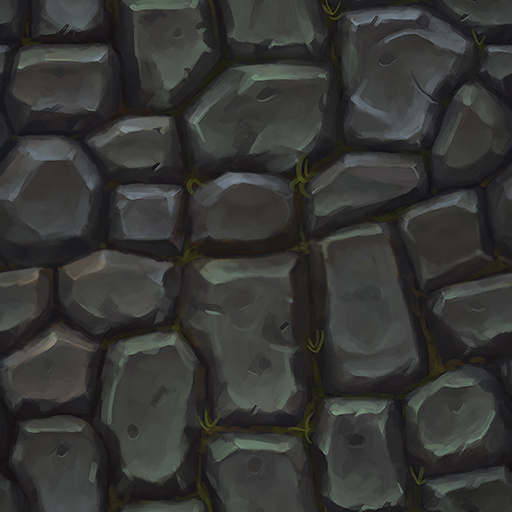
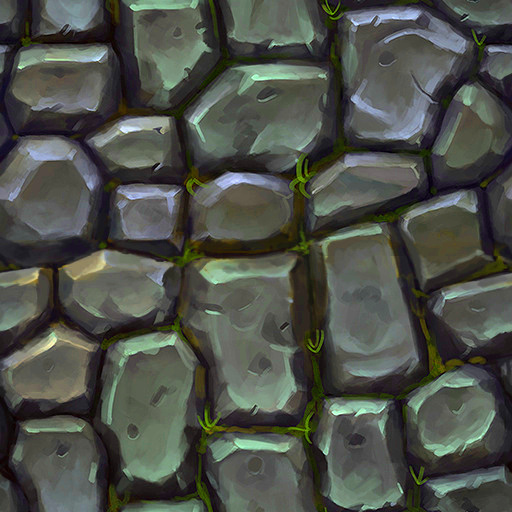
Subjective view.

diff --git a/spec/mod/mover.js b/spec/mod/mover.js
@@ -1,2 +1,2 @@
-require("mover",function(t,i){function s(t){"undefined"==typeof t&&(t={}),"undefined"==typeof t.durTranslate&&(t.durTranslate=500),"undefined"==typeof t.durRotate&&(t.durRotate=200),"undefined"==typeof t.col&&(t.col=0),"undefined"==typeof t.row&&(t.row=0),this._durTranslate=t.durTranslate,this._durRotate=t.durRotate,this._mesh=t.mesh,this._castle=t.castle,this._action=null,this._rot=this._angle=0,this._x=t.castle.col2x(t.col),this._y=t.castle.getHeight(t.col,t.row),this._z=t.castle.row2z(t.row),this._miniJump=0}function o(t){var i=this._castle,s=e[this._rot],o=this.getCol(),h=this.getRow(),n=i.getHeight(o,h),_=o+s[0],r=h+s[1],a=i.getHeight(_,r);if(!(Math.abs(a-n)>.33)){var c=this._x,l=this._y,u=this._z,p=i.col2x(_),f=a,d=i.row2z(r);this._miniJump=Math.abs(f-l),this._miniJump>.001&&(this._miniJump+=.1);var x=function(i){i-=t,i>this._durTranslate?(this._action=null,this._x=p,this._y=f,this._z=d):(i/=this._durTranslate,this._x=c*(1-i)+p*i,this._y=l*(1-i)+f*i+this._miniJump*Math.sin(Math.PI*i),this._z=u*(1-i)+d*i)};this._action=x.bind(this)}}function h(t){var i=function(i){i-=t,i>this._durRotate?(this._action=null,this._rot=(this._rot+1)%4,this._angle=-this._rot*Math.PI/2):(i/=this._durRotate,this._angle=-(this._rot+i)*Math.PI/2)};this._action=i.bind(this)}function n(t){var i=function(i){i-=t,i>this._durRotate?(this._action=null,this._rot=(this._rot+3)%4,this._angle=-this._rot*Math.PI/2):(i/=this._durRotate,this._angle=-(this._rot-i)*Math.PI/2)};this._action=i.bind(this)}var e=[[1,0],[0,1],[-1,0],[0,-1]];s.prototype.getDir=function(){return e[this._rot]},s.prototype.getPos=function(){return{x:this._x,y:this._y,z:this._z}},s.prototype.move=function(t){if(this._action)this._action(t);else if(this._nextAction){var i=this._nextAction.id;"teleport"==i?(this._x=this._nextAction.x,this._y=this._nextAction.y,this._z=this._nextAction.z):"forward"==i?o.call(this,t):"right"==i?h.call(this,t):"left"==i&&n.call(this,t),this._nextAction=null}this._mesh.position.x=this._x,this._mesh.position.y=this._y,this._mesh.position.z=this._z,this._mesh.rotation.y=this._angle},s.prototype.getCol=function(){return this._castle.x2col(this._x)},s.prototype.getRow=function(){return this._castle.z2row(this._z)},s.prototype.teleport=function(t,i,s){this._action?this._nextAction={id:"teleport",x:t,y:i,z:s}:(this._action=null,this._x=t,this._y=i,this._z=s)},s.prototype.forward=function(){this._nextAction={id:"forward"}},s.prototype.right=function(){this._nextAction={id:"right"}},s.prototype.left=function(){this._nextAction={id:"left"}},s.prototype.stop=function(){this._nextAction=null},i.exports=s});
+require("mover",function(t,i){function s(t){"undefined"==typeof t&&(t={}),"undefined"==typeof t.durTranslate&&(t.durTranslate=500),"undefined"==typeof t.durRotate&&(t.durRotate=700),"undefined"==typeof t.col&&(t.col=0),"undefined"==typeof t.row&&(t.row=0),this._durTranslate=t.durTranslate,this._durRotate=t.durRotate,this._mesh=t.mesh,this._castle=t.castle,this._action=null,this._rot=this._angle=0,this._x=t.castle.col2x(t.col),this._y=t.castle.getHeight(t.col,t.row),this._z=t.castle.row2z(t.row),this._miniJump=0}function o(t){var i=this._castle,s=e[this._rot],o=this.getCol(),h=this.getRow(),n=i.getHeight(o,h),_=o+s[0],r=h+s[1],a=i.getHeight(_,r);if(!(Math.abs(a-n)>.33)){var c=this._x,l=this._y,u=this._z,p=i.col2x(_),f=a,d=i.row2z(r);this._miniJump=Math.abs(f-l),this._miniJump>.001&&(this._miniJump+=.1);var x=function(i){i-=t,i>this._durTranslate?(this._action=null,this._x=p,this._y=f,this._z=d):(i/=this._durTranslate,this._x=c*(1-i)+p*i,this._y=l*(1-i)+f*i+this._miniJump*Math.sin(Math.PI*i),this._z=u*(1-i)+d*i)};this._action=x.bind(this)}}function h(t){var i=function(i){i-=t,i>this._durRotate?(this._action=null,this._rot=(this._rot+1)%4,this._angle=-this._rot*Math.PI/2):(i/=this._durRotate,this._angle=-(this._rot+i)*Math.PI/2)};this._action=i.bind(this)}function n(t){var i=function(i){i-=t,i>this._durRotate?(this._action=null,this._rot=(this._rot+3)%4,this._angle=-this._rot*Math.PI/2):(i/=this._durRotate,this._angle=-(this._rot-i)*Math.PI/2)};this._action=i.bind(this)}var e=[[1,0],[0,1],[-1,0],[0,-1]];s.prototype.getDir=function(){return e[this._rot]},s.prototype.getPos=function(){return{x:this._x,y:this._y,z:this._z}},s.prototype.move=function(t){if(this._action)this._action(t);else if(this._nextAction){var i=this._nextAction.id;"teleport"==i?(this._x=this._nextAction.x,this._y=this._nextAction.y,this._z=this._nextAction.z):"forward"==i?o.call(this,t):"right"==i?h.call(this,t):"left"==i&&n.call(this,t),this._nextAction=null}this._mesh.position.x=this._x,this._mesh.position.y=this._y,this._mesh.position.z=this._z,this._mesh.rotation.y=this._angle},s.prototype.getCol=function(){return this._castle.x2col(this._x)},s.prototype.getRow=function(){return this._castle.z2row(this._z)},s.prototype.teleport=function(t,i,s){this._action?this._nextAction={id:"teleport",x:t,y:i,z:s}:(this._action=null,this._x=t,this._y=i,this._z=s)},s.prototype.forward=function(){this._nextAction={id:"forward"}},s.prototype.right=function(){this._nextAction={id:"right"}},s.prototype.left=function(){this._nextAction={id:"left"}},s.prototype.stop=function(){this._nextAction=null},i.exports=s});
 //# sourceMappingURL=mover.js.map

diff --git a/src/mod/follower.js b/src/mod/follower.js
@@ -11,8 +11,16 @@ function Follower( args ) {
     this._x = this._z = 0;
     this._y = 20;
     this._time = 0;
+    this._looks = [
+        subjective.bind( this )
+    ];
 }
 
+var DIRS = [[-1,0], [0,-1], [1,0], [0,1]];
+
+function subjective( time1 ) {
+
+}
 
 /**
  * @return void
@@ -24,7 +32,13 @@ Follower.prototype.look = function( time1 ) {
     var newPos = this._args.mesh.position;
     var angle = this._args.mesh.rotation.y;    
     var time0 = this._time;
-    var maxFar = 5;
+    var maxDist = 5;
+    var orientation;
+    var bestOrientation;
+    var bestDist;
+    var bestHeight;
+    var bestCol, bestRow;
+
     var dist;
     var col, row;
     var vx, vy, vz;
@@ -36,44 +50,55 @@ Follower.prototype.look = function( time1 ) {
         col = castle.x2col( newPos.x );
         row = castle.z2row( newPos.z );
         var currentHeight = castle.getHeight( col, row );
+        // Finding orientation. This will be a number between 0 and 3.
+        bestDist = 0;
+        bestHeight = currentHeight;
+        orientation = Math.floor( angle + Math.PI / 8 ) % 4;
+        if( orientation < 0 ) orientation += 4;
+        [
+            orientation,
+            (orientation + 1) % 4,
+            (orientation + 3) % 4,
+            (orientation + 2) % 4,
+        ].forEach(function( orient ) {
+            var col2 = col, row2 = row;
+            var dir = DIRS[orient];
+//if( typeof dir === 'undefined' ) debugger;
+
+            var height;
+            var lastHeight = currentHeight;
+            for( var dist = 1 ; dist < maxDist ; dist++ ) {
+                col2 += dir[0];
+                row2 += dir[1];
+                height = Math.max( lastHeight, castle.getHeight( col2, row2 ) );
+                if( Math.abs( height - lastHeight ) > .33 ) break;
+                lastHeight = height;
+                if( dist > bestDist ) {
+                    bestDist = dist;
+                    bestHeight = height;
+                    bestCol = col2;
+                    bestRow = row2;
+                }
+            }
+        });
+
+        var targetX = castle.col2x( bestCol );
+        var targetY = bestHeight + 1.5;
+        var targetZ = castle.row2z( bestRow );
+
         var time = time1 - time0;
         var shift = .1 * Math.cos( time1 * .0007 );
-        var targetX = newPos.x - maxFar * Math.cos( angle );
-        var targetZ = newPos.z + maxFar * Math.sin( angle );
-        col = castle.z2row( targetX );
-        row = castle.x2col( targetZ );
-        var targetY = Math.max( currentHeight - .4, castle.getHeight( col, row ) );
-        bestSlope = targetY - currentHeight;
-        dist = maxFar;
-        for( k = maxFar - 1 ; k > 0 ; k-- ) {
-            x = newPos.x - k * Math.cos( angle );
-            z = newPos.z + k * Math.sin( angle );
-            col = castle.x2col( x );
-            row = castle.z2row( z );
-            h = castle.getHeight( col, row );
-            if( h == 0 ) h = currentHeight;
-            slope = (h - currentHeight) / k;
-            if( slope > bestSlope ) {
-                // There is a better spot for the camera.
-                dist = k;
-                bestSlope = slope;
-                targetX = x;
-                targetZ = z;
-                targetY = h;
-            }
-        }
 
-        dist -= .8;
-        targetX = newPos.x - dist * Math.cos( angle + shift );
-        targetZ = newPos.z + dist * Math.sin( angle + shift );
-        targetY += 1.5;  //.2 * dist;
+        targetX = newPos.x;
+        targetY = newPos.y + .8;
+        targetZ = newPos.z;
+
+        // Let's go to the target.
         vx = targetX - camera.position.x;
         vy = targetY - camera.position.y;
         vz = targetZ - camera.position.z;
         r = Math.sqrt( vx * vx + vy * vy + vz * vz );
 
-        if( isNaN( r ) ) debugger;
-        
         if( r < time * speed ) {
             camera.position.x = targetX;
             camera.position.y = targetY;
@@ -87,7 +112,12 @@ Follower.prototype.look = function( time1 ) {
     }
     this._time = time1;
    
-    camera.lookAt( new THREE.Vector3( newPos.x, newPos.y + 1, newPos.z ) );    
+    camera.position = new THREE.Vector3( newPos.x, newPos.y + .8, newPos.z );
+    camera.lookAt( new THREE.Vector3( 
+        newPos.x - Math.sin( angle - Math.PI / 2 ), 
+        newPos.y + .8, 
+        newPos.z - Math.cos( angle - Math.PI / 2 )
+    ) );    
 };
 
 

diff --git a/spec/mod/follower.js b/spec/mod/follower.js
@@ -1,2 +1,2 @@
-require("follower",function(t,i){function o(t){this._args=t,this._x=this._z=0,this._y=20,this._time=0}o.prototype.look=function(t){var i,o,s,h,a,e,r,n,x,c,p,z,g,_=.006,l=this._args.camera,M=this._args.castle,f=this._args.mesh.position,m=this._args.mesh.rotation.y,y=this._time,w=5;if(y>0){o=M.x2col(f.x),s=M.z2row(f.z);var u=M.getHeight(o,s),v=t-y,H=.1*Math.cos(7e-4*t),k=f.x-w*Math.cos(m),q=f.z+w*Math.sin(m);o=M.z2row(k),s=M.x2col(q);var E=Math.max(u-.4,M.getHeight(o,s));for(g=E-u,i=w,n=w-1;n>0;n--)c=f.x-n*Math.cos(m),p=f.z+n*Math.sin(m),o=M.x2col(c),s=M.z2row(p),x=M.getHeight(o,s),0==x&&(x=u),z=(x-u)/n,z>g&&(i=n,g=z,k=c,q=p,E=x);if(i-=.8,k=f.x-i*Math.cos(m+H),q=f.z+i*Math.sin(m+H),E+=1.5,h=k-l.position.x,a=E-l.position.y,e=q-l.position.z,r=Math.sqrt(h*h+a*a+e*e),isNaN(r),v*_>r)l.position.x=k,l.position.y=E,l.position.z=q;else{var N=v*_/r;l.position.x+=h*N,l.position.y+=a*N,l.position.z+=e*N}}this._time=t,l.lookAt(new THREE.Vector3(f.x,f.y+1,f.z))},i.exports=o});
+require("follower",function(t,o){function i(t){this._args=t,this._x=this._z=0,this._y=20,this._time=0,this._looks=[s.bind(this)]}function s(t){}var a=[[-1,0],[0,-1],[1,0],[0,1]];i.prototype.look=function(t){var o,i,s,h,n,r,e,c,p,x,_,f=.006,l=this._args.camera,z=this._args.castle,M=this._args.mesh.position,g=this._args.mesh.rotation.y,y=this._time,m=5;if(y>0){r=z.x2col(M.x),e=z.z2row(M.z);var u=z.getHeight(r,e);i=0,s=u,o=Math.floor(g+Math.PI/8)%4,0>o&&(o+=4),[o,(o+1)%4,(o+3)%4,(o+2)%4].forEach(function(t){for(var o,c=r,p=e,x=a[t],_=u,f=1;m>f&&(c+=x[0],p+=x[1],o=Math.max(_,z.getHeight(c,p)),!(Math.abs(o-_)>.33));f++)_=o,f>i&&(i=f,s=o,h=c,n=p)});var v=z.col2x(h),w=s+1.5,E=z.row2z(n),H=t-y;.1*Math.cos(7e-4*t);if(v=M.x,w=M.y+.8,E=M.z,c=v-l.position.x,p=w-l.position.y,x=E-l.position.z,_=Math.sqrt(c*c+p*p+x*x),H*f>_)l.position.x=v,l.position.y=w,l.position.z=E;else{var k=H*f/_;l.position.x+=c*k,l.position.y+=p*k,l.position.z+=x*k}}this._time=t,l.position=new THREE.Vector3(M.x,M.y+.8,M.z),l.lookAt(new THREE.Vector3(M.x-Math.sin(g-Math.PI/2),M.y+.8,M.z-Math.cos(g-Math.PI/2)))},o.exports=i});
 //# sourceMappingURL=follower.js.map

diff --git a/spec/mod/mesh.castle.js b/spec/mod/mesh.castle.js
@@ -1,2 +1,2 @@
-require("mesh.castle",function(e,a){var r=require("geo.castle");a.exports=function(e){var a=(new THREE.TextureLoader).load("css/gfx/grass.jpg"),p=(new THREE.TextureLoader).load("css/gfx/grass-bump.jpg"),s=new THREE.MeshStandardMaterial({metalness:0,roughness:.5,map:a,bumpMap:p}),n=(new THREE.TextureLoader).load("css/gfx/wall.jpg");n.wrapS=THREE.RepeatWrapping,n.wrapT=THREE.RepeatWrapping;var t=(new THREE.TextureLoader).load("css/gfx/wall-bump.jpg");t.wrapS=THREE.RepeatWrapping,t.wrapT=THREE.RepeatWrapping;var E=new THREE.MeshStandardMaterial({metalness:0,roughness:.5,map:n,bumpMap:t}),g=new THREE.MultiMaterial([s,E]),T=new r(e),l=T.createMesh(g);return l}});
+require("mesh.castle",function(e,a){var r=require("geo.castle");a.exports=function(e){var a=(new THREE.TextureLoader).load("css/gfx/grass.jpg"),p=((new THREE.TextureLoader).load("css/gfx/grass-bump.jpg"),new THREE.MeshStandardMaterial({metalness:0,roughness:1,map:a})),s=(new THREE.TextureLoader).load("css/gfx/wall2.jpg");s.wrapS=THREE.RepeatWrapping,s.wrapT=THREE.RepeatWrapping;var n=(new THREE.TextureLoader).load("css/gfx/wall2-bump.jpg");n.wrapS=THREE.RepeatWrapping,n.wrapT=THREE.RepeatWrapping;var t=new THREE.MeshStandardMaterial({metalness:0,roughness:.5,map:s,bumpMap:n,bumpMapScale:.4}),E=new THREE.MultiMaterial([p,t]),g=new r(e),l=g.createMesh(E);return l}});
 //# sourceMappingURL=mesh.castle.js.map

diff --git a/src/mod/mesh.castle.js b/src/mod/mesh.castle.js
@@ -12,22 +12,24 @@ module.exports = function( castle ) {
     var texGrassBump = new THREE.TextureLoader().load( "css/gfx/grass-bump.jpg" );
     var matRoof = new THREE.MeshStandardMaterial({
         metalness: 0,
-        roughness: .5,
-        map: texGrass,
-        bumpMap: texGrassBump
+        roughness: 1,
+        map: texGrass/*,
+        bumpMap: texGrassBump,
+        bumpMapScale: 0*/
     });
 
-    var texWall = new THREE.TextureLoader().load( "css/gfx/wall.jpg" );
+    var texWall = new THREE.TextureLoader().load( "css/gfx/wall2.jpg" );
     texWall.wrapS = THREE.RepeatWrapping;
     texWall.wrapT = THREE.RepeatWrapping;
-    var texWallBump = new THREE.TextureLoader().load( "css/gfx/wall-bump.jpg" );
+    var texWallBump = new THREE.TextureLoader().load( "css/gfx/wall2-bump.jpg" );
     texWallBump.wrapS = THREE.RepeatWrapping;
     texWallBump.wrapT = THREE.RepeatWrapping;
     var matWall = new THREE.MeshStandardMaterial({
         metalness: 0,
         roughness: .5,
         map: texWall,
-        bumpMap: texWallBump
+        bumpMap: texWallBump,
+        bumpMapScale: .4
     });
 
     var material = new THREE.MultiMaterial([ matRoof, matWall ]);

diff --git a/spec/mod/geo.hero.js b/spec/mod/geo.hero.js
@@ -1,2 +1,2 @@
-require("geo.hero",function(t,o){"use strict";var r=require("geo"),a=function(){r.call(this);var t,o,a,s,e,c=new THREE.Color(16750848),h=60,i=1,M=.3;for(t=0;h>t;t++)o=2*t*Math.PI/h,a=2*(t+1)*Math.PI/h,s=M,e=M/2,this.addTri({color:c,vertices:[[1.5*M,i,0],[.4*M+e*Math.cos(a),i/2,e*Math.sin(a)],[.4*M+e*Math.cos(o),i/2,e*Math.sin(o)]]}),this.addQuad({color:c,vertices:[[s*Math.cos(o),0,s*Math.sin(o)],[s*Math.cos(a),0,s*Math.sin(a)],[.4*M+e*Math.cos(a),i/2,e*Math.sin(a)],[.4*M+e*Math.cos(o),i/2,e*Math.sin(o)]]})};a.prototype=Object.create(r.prototype),a.prototype.constructor=r,o.exports=a});
+require("geo.hero",function(t,e){"use strict";var o=require("geo"),r=function(){o.call(this)};r.prototype=Object.create(o.prototype),r.prototype.constructor=o,e.exports=r});
 //# sourceMappingURL=geo.hero.js.map

diff --git a/src/mod/mover.js b/src/mod/mover.js
@@ -14,7 +14,7 @@ var DIRS = [ [1,0], [0,1], [-1,0], [0,-1] ];
 function Mover( args ) {
     if( typeof args === 'undefined' ) args = {};
     if( typeof args.durTranslate === 'undefined' ) args.durTranslate = 500;
-    if( typeof args.durRotate === 'undefined' ) args.durRotate = 200;;
+    if( typeof args.durRotate === 'undefined' ) args.durRotate = 700;
     if( typeof args.col === 'undefined' ) args.col = 0;
     if( typeof args.row === 'undefined' ) args.row = 0;
 

diff --git a/src/mod/geo.hero.js b/src/mod/geo.hero.js
@@ -8,7 +8,7 @@ var Geo = require("geo");
 
 var Hero = function() {
     Geo.call( this );
-
+/*
     var orange = new THREE.Color( 0xff9900 );
     var steps = 60, height = 1, radius = .3;
     var i, ang1, ang2, r1, r2;
@@ -35,6 +35,7 @@ var Hero = function() {
             ]
         });
     }
+*/
 };
 
 
